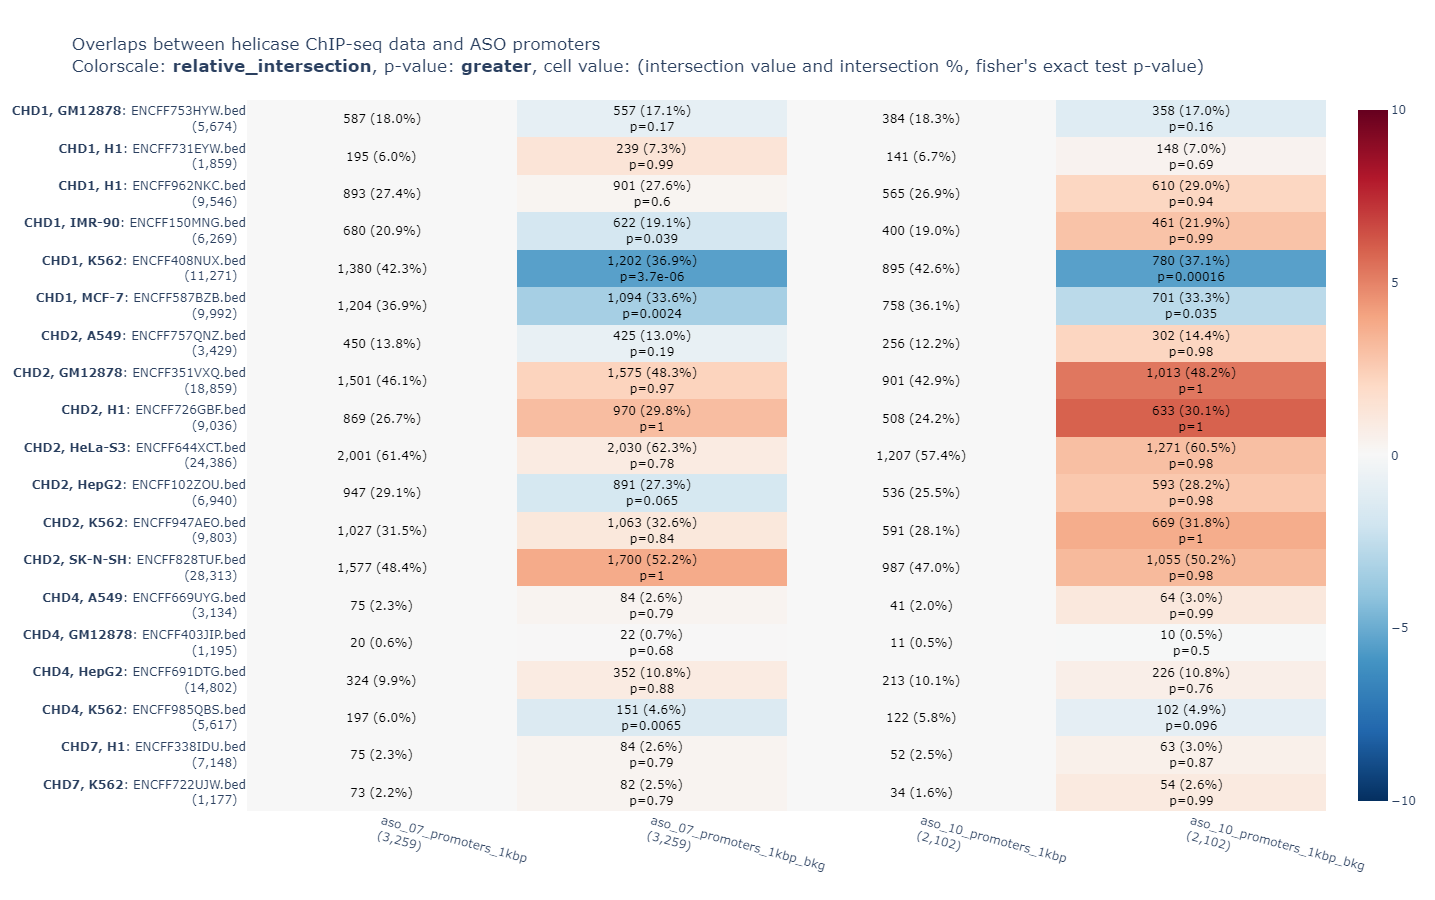
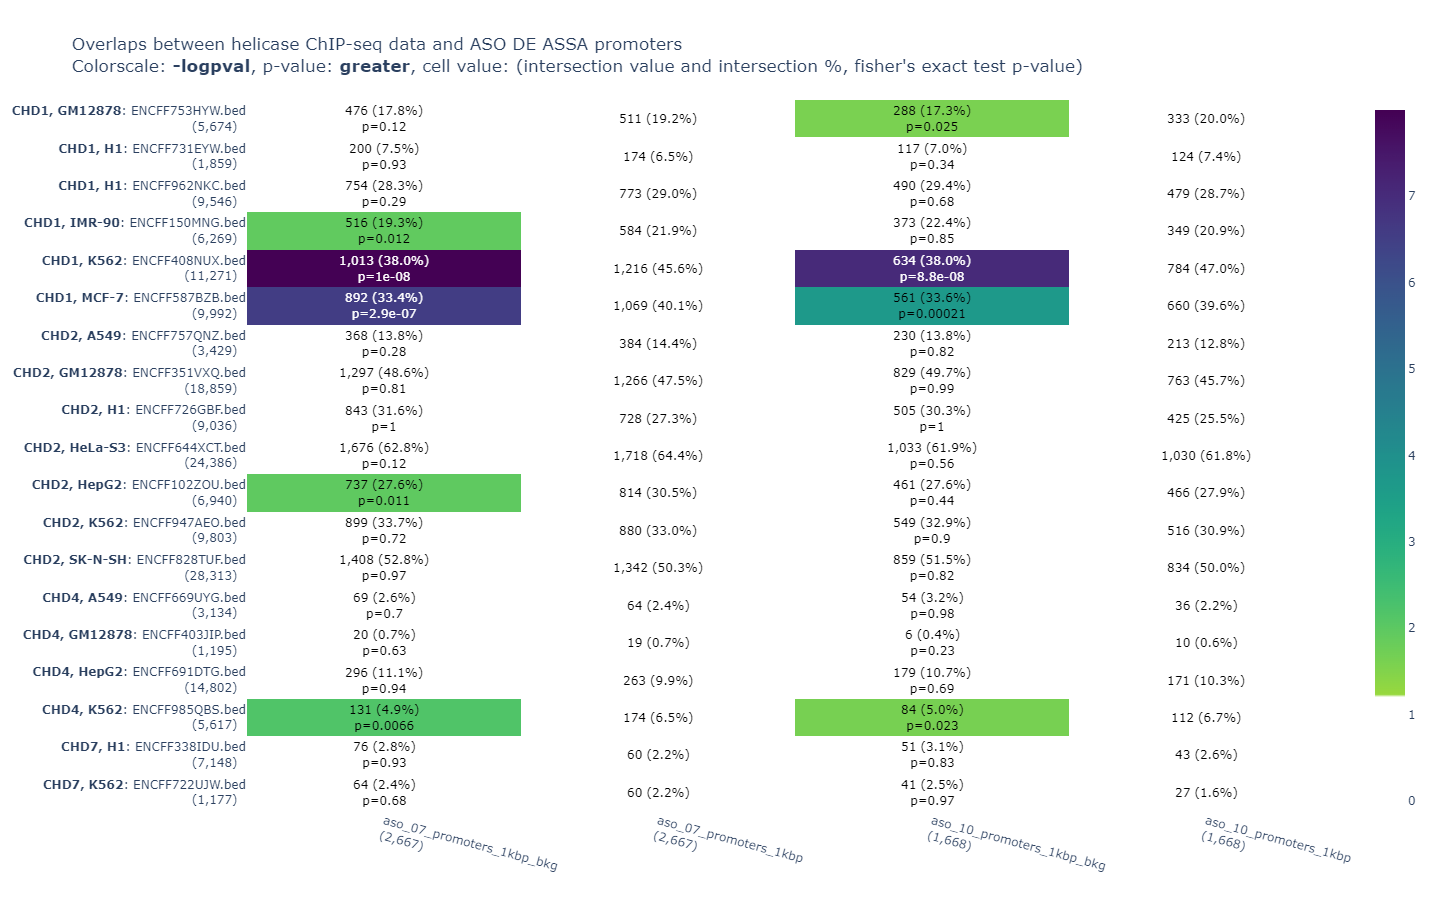
Updated data and graph for 4.1.5

diff --git a/README.md b/README.md
@@ -159,7 +159,9 @@ $ grep '^__' htseq/UDN809320_S.counts > htseq/UDN809320_S.counts.info
     - [data/ASO_G0272888_AD_10.oligo_DE_Summary_promoter.tsv](data/ASO_G0272888_AD_10.oligo_DE_Summary_promoter.tsv) (28,123)
 - Данные по таргетным промотерам
     - [article_assa_and_f6/blob/master/data/ASO_G0272888_AD_07.DE_Summary](https://github.com/vanya-antonov/article_assa_and_f6/blob/master/data/ASO_G0272888_AD_07.DE_Summary) (3,259)
+    - [article_assa_and_f6/blob/master/data/ASO_G0272888_AD_07/HGD.drawn_balls](https://github.com/vanya-antonov/article_assa_and_f6/raw/master/data/ASO_G0272888_AD_07/HGD.drawn_balls) (4,686)
     - [article_assa_and_f6/blob/master/data/ASO_G0272888_AD_10.DE_Summary](https://github.com/vanya-antonov/article_assa_and_f6/blob/master/data/ASO_G0272888_AD_10.DE_Summary) (2,102)
+    - [article_assa_and_f6/blob/master/data/ASO_G0272888_AD_10/HGD.drawn_balls](https://github.com/vanya-antonov/article_assa_and_f6/raw/master/data/ASO_G0272888_AD_10/HGD.drawn_balls) (2,989)
 
 ### Результат
 
